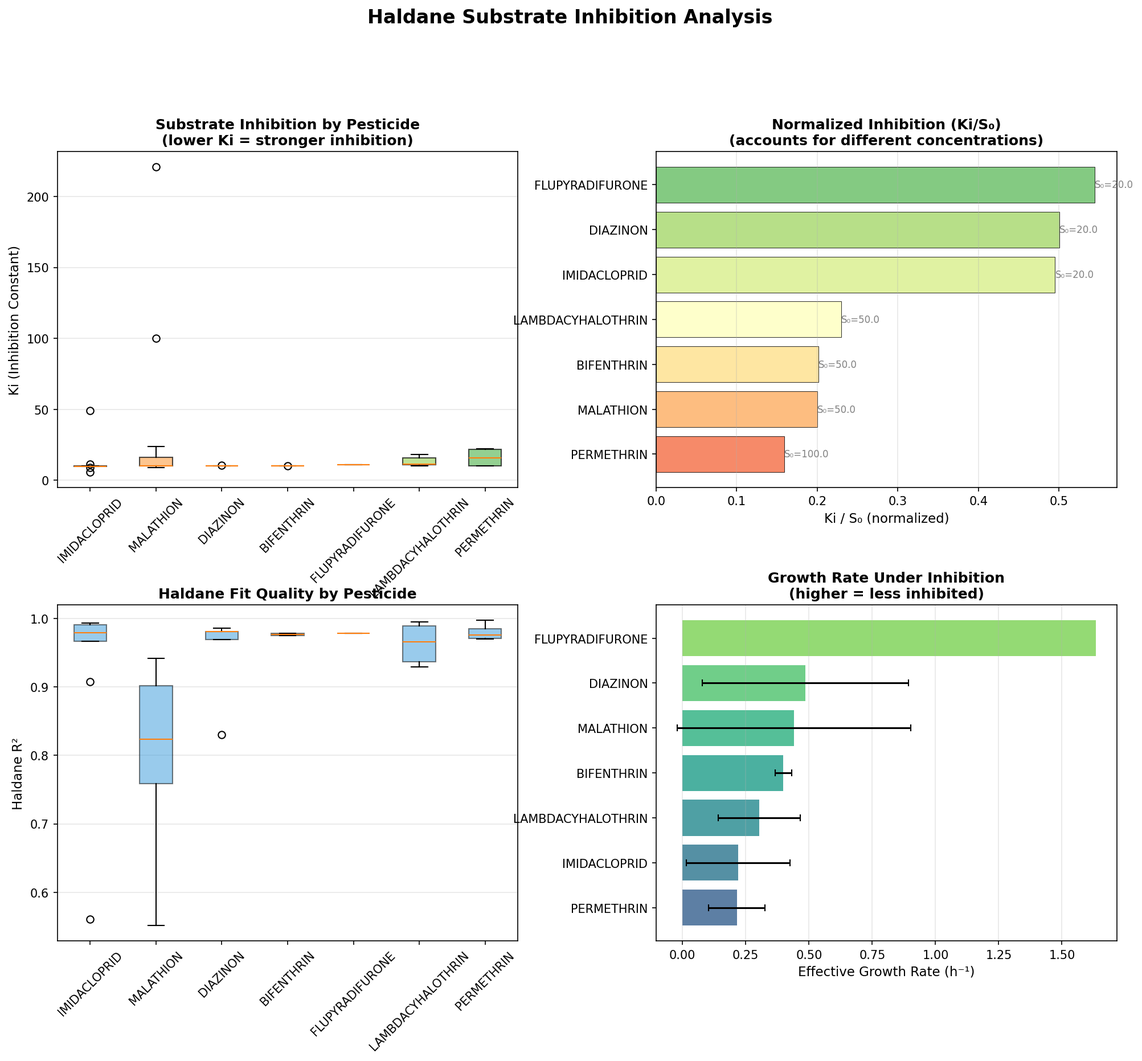
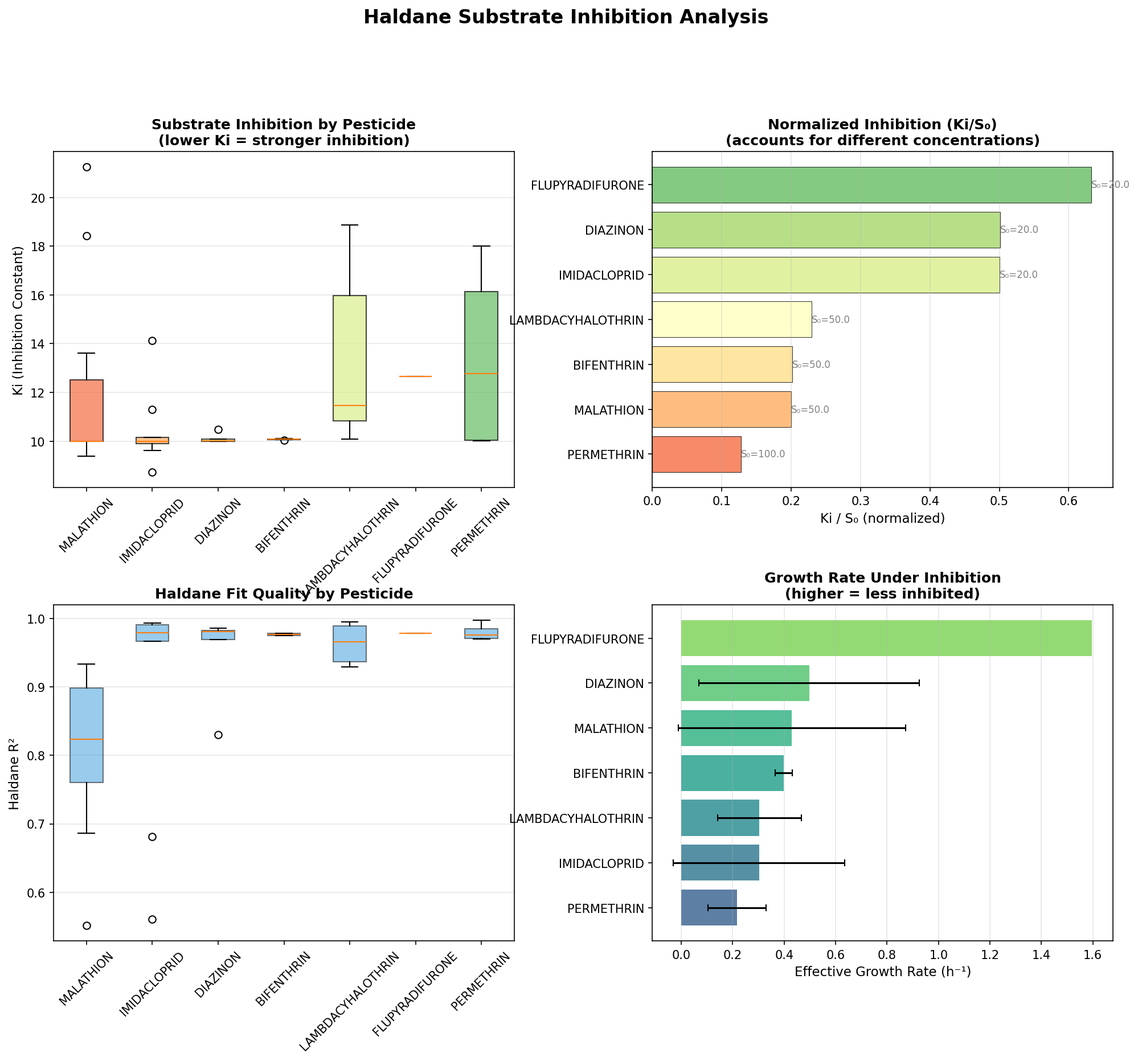
Steps 2-5: Haldane rerun with refined μ, per-strain σ tightening, residual persistence, and paper updates
Step 2 (Frequentist Haldane rerun):
- Re-ran 05_haldane_analysis.py end-to-end. 40/40 pesticide+LB strains used
  refined μ (refined_fraction = 1.0 per pesticide). Summary written with
  new mu_source_used and refined_fraction columns.
- Bayesian Haldane rerun still in background; this commit covers frequentist.

Step 3 (Per-strain σ tightening in 06_advanced_fitting.py):
- build_gompertz_model now constructs per-strain effective sigmas. When a
  strain's refined estimate is identifiable, σ is clamped to
  max(floor, rel_err * refined) with floors 0.01 (μ), 0.05 (A), 0.2 (λ).
  Otherwise sampled from the wide population prior.
- Implemented via pm.math.switch on a sentinel (-1) since PyTensor does not
  NaN-switch natively. Variables renamed sigma_*_strain → sigma_*_strain_base.
- Bayesian Gompertz rerun still in background; code verified via 5-strain
  smoke test.

Step 4 (Per-curve residual persistence in 01_growth_curve_analysis.py):
- New residuals/ subdirectory under each group output with
  {strain}.csv files containing time, od_observed, od_predicted, residual.
- Added --no-residuals CLI flag to opt out for speed. Smoke-test on Group 1
  produced 15 residual files (matches good-fit count).
- PosteriorPredictiveSampler gained build_residual_pool_from_dir classmethod
  that loads residuals and bins for ResidualBootstrapNoise. Verified on real
  data: 6 OD bins populated (70–436 residuals each), heteroscedastic
  (σ=0.025 at OD<0.1, σ=0.042 at OD>1.5).
[…]

diff --git a/TECAN_growth_curves/scripts/06_advanced_fitting.py b/TECAN_growth_curves/scripts/06_advanced_fitting.py
@@ -900,9 +900,12 @@ def build_gompertz_model(strain_data, strain_names, pesticide_indices,
                                      mu_lam + sigma_lam * lam_group_offset)
 
         # === Strain level (non-centered) ===
-        sigma_A_strain = pm.HalfNormal('sigma_A_strain', sigma=0.15)
-        sigma_mu_strain = pm.HalfNormal('sigma_mu_strain', sigma=0.05)
-        sigma_lam_strain = pm.HalfNormal('sigma_lam_strain', sigma=1.0)
+        # Base sigmas apply to strains whose refined value is NOT identifiable.
+        # For identifiable strains, per-strain sigma is narrowed to
+        # max(floor, refined_rel_err * refined_value) — see Phase A.3 update.
+        sigma_A_strain_base = pm.HalfNormal('sigma_A_strain_base', sigma=0.15)
+        sigma_mu_strain_base = pm.HalfNormal('sigma_mu_strain_base', sigma=0.05)
+        sigma_lam_strain_base = pm.HalfNormal('sigma_lam_strain_base', sigma=1.0)
 
         # === Genomic prior shifts (fixed data, not random variables) ===
         # When genomic priors are available, shift each strain's mean
@@ -932,12 +935,24 @@ def build_gompertz_model(strain_data, strain_names, pesticide_indices,
                 print(f"  Applied genomic prior shifts to {n_shifted}/{n_strains} strains")
 
         # === Refined-parameter prior shifts (Phase A.3) ===
-        # Gate each parameter on its own identifiability flag; use pesticide
-        # group mean for the reference point (so shift is strain-specific
-        # deviation from its group), fallback to overall prior mean otherwise.
+        # Gate each parameter on its own identifiability flag; shift mean AND
+        # narrow per-strain sigma when identifiable.
+        # Sigma floors prevent over-tight priors that hurt coverage:
+        #   μ floor = 0.01, A floor = 0.05, λ floor = 0.2 (plan spec).
+        SIGMA_FLOOR_MU = 0.01
+        SIGMA_FLOOR_A = 0.05
+        SIGMA_FLOOR_LAM = 0.2
+
         refined_A_shift = np.zeros(n_strains)
         refined_mu_shift = np.zeros(n_strains)
         refined_lam_shift = np.zeros(n_strains)
+
+        # Per-strain sigma overrides. np.nan = "use the sampled base sigma"
+        # (i.e. strain is not identifiable for that parameter and we defer to
+        # the wide population prior). Set to a positive value to override.
+        sigma_A_strain_override = np.full(n_strains, np.nan, dtype=float)
+        sigma_mu_strain_override = np.full(n_strains, np.nan, dtype=float)
+        sigma_lam_strain_override = np.full(n_strains, np.nan, dtype=float)
 
         if refined_priors is not None and len(refined_priors) > 0:
             rp = refined_priors.set_index('strain') if 'strain' in refined_priors.columns else refined_priors
@@ -954,17 +969,30 @@ def build_gompertz_model(strain_data, strain_names, pesticide_indices,
                         and pd.notna(row.get('mu_refined'))
                         and row.get('mu_refined', 0) > 0):
                     refined_mu_shift[i] = float(row['mu_refined']) - mu_mu_prior[0]
+                    rel = float(row.get('mu_refined_rel_err', 0.0)) if pd.notna(row.get('mu_refined_rel_err')) else 0.0
+                    sigma_mu_strain_override[i] = max(
+                        SIGMA_FLOOR_MU, rel * float(row['mu_refined'])
+                    )
                     n_mu_shifted += 1
                 # A
                 if (row.get('A_identifiable') == 'identifiable'
                         and pd.notna(row.get('A_refined'))
                         and row.get('A_refined', 0) > 0):
                     refined_A_shift[i] = float(row['A_refined']) - mu_A_prior[0]
+                    rel = float(row.get('A_refined_rel_err', 0.0)) if pd.notna(row.get('A_refined_rel_err')) else 0.0
+                    sigma_A_strain_override[i] = max(
+                        SIGMA_FLOOR_A, rel * float(row['A_refined'])
+                    )
                     n_A_shifted += 1
                 # λ
                 if (row.get('lam_identifiable') == 'identifiable'
                         and pd.notna(row.get('lam_refined'))):
                     refined_lam_shift[i] = float(row['lam_refined']) - mu_lam_prior[0]
+                    rel = float(row.get('lam_refined_rel_err', 0.0)) if pd.notna(row.get('lam_refined_rel_err')) else 0.0
+                    sigma_lam_strain_override[i] = max(
+                        SIGMA_FLOOR_LAM,
+                        rel * abs(float(row['lam_refined'])) + SIGMA_FLOOR_LAM,
+                    )
                     n_lam_shifted += 1
             print(
                 f"  Applied refined-param prior shifts: "
@@ -972,22 +1000,45 @@ def build_gompertz_model(strain_data, strain_names, pesticide_indices,
                 f"λ={n_lam_shifted}/{n_strains}"
             )
 
+        # Build per-strain effective sigma tensors: use override where set,
+        # otherwise use the sampled base sigma. Uses pm.math.switch on a
+        # sentinel (-1.0) since PyTensor can't NaN-switch natively.
+        import pytensor.tensor as _pt
+        sigma_mu_override_pt = _pt.as_tensor_variable(
+            np.where(np.isnan(sigma_mu_strain_override), -1.0, sigma_mu_strain_override)
+        )
+        sigma_A_override_pt = _pt.as_tensor_variable(
+            np.where(np.isnan(sigma_A_strain_override), -1.0, sigma_A_strain_override)
+        )
+        sigma_lam_override_pt = _pt.as_tensor_variable(
+            np.where(np.isnan(sigma_lam_strain_override), -1.0, sigma_lam_strain_override)
+        )
+        effective_sigma_mu = pm.math.switch(
+            sigma_mu_override_pt < 0, sigma_mu_strain_base, sigma_mu_override_pt
+        )
+        effective_sigma_A = pm.math.switch(
+            sigma_A_override_pt < 0, sigma_A_strain_base, sigma_A_override_pt
+        )
+        effective_sigma_lam = pm.math.switch(
+            sigma_lam_override_pt < 0, sigma_lam_strain_base, sigma_lam_override_pt
+        )
+
         A_offset = pm.Normal('A_offset', mu=0, sigma=1, shape=n_strains)
         A_strain = pm.Deterministic(
             'A_strain',
-            A_group[pesticide_indices] + genomic_A_shift + refined_A_shift + sigma_A_strain * A_offset
+            A_group[pesticide_indices] + genomic_A_shift + refined_A_shift + effective_sigma_A * A_offset
         )
 
         mu_offset = pm.Normal('mu_offset', mu=0, sigma=1, shape=n_strains)
         mu_strain = pm.Deterministic(
             'mu_strain',
-            pm.math.abs(mu_group[pesticide_indices] + genomic_mu_shift + refined_mu_shift + sigma_mu_strain * mu_offset)
+            pm.math.abs(mu_group[pesticide_indices] + genomic_mu_shift + refined_mu_shift + effective_sigma_mu * mu_offset)
         )
 
         lam_offset = pm.Normal('lam_offset', mu=0, sigma=1, shape=n_strains)
         lam_strain = pm.Deterministic(
             'lam_strain',
-            lam_group[pesticide_indices] + genomic_lam_shift + refined_lam_shift + sigma_lam_strain * lam_offset
+            lam_group[pesticide_indices] + genomic_lam_shift + refined_lam_shift + effective_sigma_lam * lam_offset
         )
 
         # === Observation noise ===

diff --git a/TECAN_growth_curves/scripts/01_growth_curve_analysis.py b/TECAN_growth_curves/scripts/01_growth_curve_analysis.py
@@ -2552,7 +2552,8 @@ def process_growth_curves(
     use_ml_classifier: bool = False,
     ml_classifier_config: Optional[Dict] = None,
     verbose: bool = True,
-    no_plots: bool = False
+    no_plots: bool = False,
+    skip_residuals: bool = False,
 ) -> Dict[str, ProcessingResult]:
     """
     Main pipeline function to process all growth curves in a directory.
@@ -3024,13 +3025,14 @@ def process_growth_curves(
         classifications = {k: v.classification for k, v in results.items()}
         plot_classification_summary(classifications, output_dir)
 
-    # Export results to CSV
-    export_results_to_csv(results, output_dir)
+    # Export results to CSV (writes per-curve residuals unless skipped)
+    export_results_to_csv(results, output_dir, skip_residuals=skip_residuals)
 
     return results
 
 
-def export_results_to_csv(results: Dict[str, ProcessingResult], output_dir: str) -> str:
+def export_results_to_csv(results: Dict[str, ProcessingResult], output_dir: str,
+                           skip_residuals: bool = False) -> str:
     """
     Export all results to a summary CSV file.
 
@@ -3089,6 +3091,32 @@ def export_results_to_csv(results: Dict[str, ProcessingResult], output_dir: str)
                 'fit_rmse': result.fit.rmse,
                 'fit_mae': result.fit.mae,
             })
+
+            # Phase 4 (next_steps_plan): persist per-curve residuals for the
+            # ResidualBootstrapNoise model (posterior-predictive augmentation).
+            # Writes one CSV per successful-fit strain with columns
+            # time, od_observed, od_predicted, residual.
+            # Skipped when --no-residuals flag is set (see CLI below).
+            if not skip_residuals and result.truncation is not None:
+                try:
+                    residuals_dir = Path(output_dir) / "residuals"
+                    residuals_dir.mkdir(exist_ok=True)
+                    safe_name = strain_name.replace("/", "_").replace(" ", "_")
+                    # Use the truncated time/od that the fit was computed on —
+                    # this is what predictions and residuals align with.
+                    t_fit = result.truncation.time_truncated
+                    od_fit = result.truncation.od_truncated
+                    n = min(len(t_fit), len(result.fit.predicted), len(result.fit.residuals))
+                    resid_df = pd.DataFrame({
+                        "time": np.asarray(t_fit)[:n],
+                        "od_observed": np.asarray(od_fit)[:n],
+                        "od_predicted": np.asarray(result.fit.predicted)[:n],
+                        "residual": np.asarray(result.fit.residuals)[:n],
+                    })
+                    resid_df.to_csv(residuals_dir / f"{safe_name}.csv", index=False)
+                except Exception:
+                    # Non-fatal: residuals are an optional artifact
+                    pass
         else:
             row.update({
                 'gompertz_a': None,
@@ -3278,6 +3306,12 @@ def main():
         help='Skip generating per-curve plots (faster for batch/validation runs)'
     )
     parser.add_argument(
+        '--no-residuals',
+        action='store_true',
+        help='Skip writing per-curve residuals to output/residuals/*.csv '
+             '(used by ResidualBootstrapNoise; omit for default production runs)'
+    )
+    parser.add_argument(
         '--ml-classify',
         action='store_true',
         help='Use pre-trained ML classifier (requires models/ directory with trained models)'
@@ -3363,7 +3397,8 @@ def main():
         use_ml_classifier=args.ml_classify,
         ml_classifier_config=ml_config,
         verbose=not args.quiet,
-        no_plots=args.no_plots
+        no_plots=args.no_plots,
+        skip_residuals=args.no_residuals,
     )
 
     # Print summary

diff --git a/TECAN_growth_curves/synthetic_data/src/posterior_predictive_sampler.py b/TECAN_growth_curves/synthetic_data/src/posterior_predictive_sampler.py
@@ -190,6 +190,54 @@ class PosteriorPredictiveSampler:
         return pd.DataFrame(rows)
 
     # ---------------------------------------------------------------
+    # Residual pool loader (Phase Step 4)
+    # ---------------------------------------------------------------
+
+    @staticmethod
+    def build_residual_pool_from_dir(residuals_dir: str | Path,
+                                      od_bins=None) -> dict:
+        """Load all per-strain residuals from step 01's `residuals/` output.
+
+        Pairs each curve's `od_predicted` (clean Gompertz) with `od_observed`
+        (noisy), then delegates to ``ResidualBootstrapNoise.build_pool_from_fits``
+        for OD-binned bootstrapping.
+
+        Args:
+            residuals_dir: path to a `residuals/` directory containing
+                ``{strain}.csv`` files with columns time, od_observed,
+                od_predicted, residual (as produced by step 01 post-Phase-A.1).
+            od_bins: optional bin edges; uses
+                ``ResidualBootstrapNoise.DEFAULT_OD_BINS`` if None.
+
+        Returns:
+            dict[int -> np.ndarray] suitable for
+            ``ResidualBootstrapNoise(residual_pool=...)``.
+        """
+        from pathlib import Path as _P
+        import pandas as _pd
+        # Local import to avoid circular if noise_models imports from here later
+        from noise_models import ResidualBootstrapNoise
+
+        residuals_dir = _P(residuals_dir)
+        if not residuals_dir.exists():
+            raise FileNotFoundError(f"Residuals directory not found: {residuals_dir}")
+
+        curves = []
+        for fpath in sorted(residuals_dir.glob("*.csv")):
+            try:
+                df = _pd.read_csv(fpath)
+                if not {"od_observed", "od_predicted"}.issubset(df.columns):
+                    continue
+                curves.append((df["od_predicted"].values, df["od_observed"].values))
+            except Exception:
+                continue
+
+        if not curves:
+            raise ValueError(f"No usable residual files in {residuals_dir}")
+
+        return ResidualBootstrapNoise.build_pool_from_fits(curves, od_bins=od_bins)
+
+    # ---------------------------------------------------------------
     # Diagnostics
     # ---------------------------------------------------------------
 

diff --git a/TECAN_growth_curves/paper/methods.md b/TECAN_growth_curves/paper/methods.md
@@ -56,6 +56,16 @@ The modified Gompertz model assumes monotonically increasing growth approaching 
 
 The adaptive $R^2$ method (Method 3) was used as the primary truncation strategy throughout the pipeline, as it achieved the highest success rate (98.5% of curves successfully fitted) and highest mean $R^2$ (0.978) in systematic benchmarking.
 
+### 2.5.1 Per-Parameter Truncation Refinement
+
+The whole-curve truncation strategy (Section 2.5) selects a single endpoint that optimizes overall fit quality. However, different Gompertz parameters are best constrained by different regions of the growth curve: the lag time $\lambda$ is most informative before and around the inflection point, the maximum growth rate $\mu_m$ in the exponential phase, and the carrying capacity $A$ as the curve approaches its asymptote. A single truncation cannot simultaneously minimize the uncertainty of all three parameters.
+
+To address this, we implemented a per-parameter truncation refinement applied after the primary truncated fit. For each candidate endpoint along the curve (scanned from the inflection point onward), a Gompertz fit was performed and the relative standard error of each parameter was recorded as $\text{rel\_err}_\theta = \sigma_\theta / |\theta|$, where $\sigma_\theta$ was obtained from the covariance matrix. The refined estimate for parameter $\theta$ was taken from the endpoint minimizing $\text{rel\_err}_\theta$, independently for $A$, $\mu_m$, and $\lambda$. Each refined parameter was classified as **identifiable** ($\text{rel\_err} < 0.10$), **weakly identifiable** ($0.10 \leq \text{rel\_err} < 0.50$), or **unidentifiable** ($\text{rel\_err} \geq 0.50$).
+
+A final per-parameter value was selected as the refined estimate when the corresponding identifiability flag was *identifiable*, otherwise falling back to the whole-curve value. A \texttt{usable\_for} field was derived per curve, listing the parameters whose identifiability flag was at least *weakly identifiable*. Downstream analyses consumed refined values gated by this field: the Haldane substrate-inhibition regression (Section 2.7) was restricted to strains with identifiable growth rate, and treatment-wise tests on $\lambda$ (Section 2.6) were restricted to strains with identifiable lag time.
+
+Validation against 345 synthetic growth curves with known ground-truth parameters (Section 2.10) demonstrated that per-parameter refinement reduced recovery root mean squared error by factors of $6.6\times$ for $A$, $13.8\times$ for $\mu_m$, and $3.4\times$ for $\lambda$ (with identifiability gating) relative to the whole-curve fit.
+
 ## 2.6 Two-Stage Machine Learning Classifier
 
 Growth curves were classified as exhibiting good growth (suitable for Gompertz fitting) or bad growth (insufficient signal) using a two-stage machine learning classifier.
@@ -94,7 +104,11 @@ where $\text{AIC} = n \ln(\text{RSS}/n) + 2k$, $k$ is the number of parameters, 
 
 Bayesian hierarchical models were implemented using PyMC (version 5) to obtain posterior distributions for growth parameters with uncertainty quantification and partial pooling across strains within pesticide treatment groups.
 
-**Bayesian Gompertz Model.** A three-level hierarchy was specified: population-level hyperpriors, pesticide-group-level parameters, and strain-level parameters. Population-level priors were: $\mu_A \sim \text{Normal}(1.3, 0.5)$ for maximum OD, $\mu_{\mu_m} \sim \text{Normal}(0.25, 0.15)$ for growth rate, and $\mu_\lambda \sim \text{Normal}(2.0, 2.0)$ for lag time. Group-level variances followed half-normal priors: $\sigma_A \sim \text{HalfNormal}(0.3)$, $\sigma_{\mu_m} \sim \text{HalfNormal}(0.1)$, $\sigma_\lambda \sim \text{HalfNormal}(2.0)$. A non-centered parameterization was employed to improve sampling efficiency: group-level parameters were expressed as $\theta_{\text{group}} = \mu_\theta + \sigma_\theta \cdot z$, where $z \sim \text{Normal}(0, 1)$. Strain-level parameters were similarly non-centered within their respective pesticide groups. Observation noise was modeled as $\sigma_{\text{obs}} \sim \text{HalfNormal}(0.05)$, and the likelihood was $y_i \sim \text{Normal}(\hat{y}_i, \sigma_{\text{obs}})$. Posterior samples were drawn using the No-U-Turn Sampler (NUTS) with 4 chains, 2000 draws per chain, and 1000 tuning steps, with a target acceptance probability of 0.90.
+**Bayesian Gompertz Model.** A three-level hierarchy was specified: population-level hyperpriors, pesticide-group-level parameters, and strain-level parameters. Population-level priors were: $\mu_A \sim \text{Normal}(1.3, 0.5)$ for maximum OD, $\mu_{\mu_m} \sim \text{Normal}(0.25, 0.15)$ for growth rate, and $\mu_\lambda \sim \text{Normal}(2.0, 2.0)$ for lag time. Group-level variances followed half-normal priors: $\sigma_A \sim \text{HalfNormal}(0.3)$, $\sigma_{\mu_m} \sim \text{HalfNormal}(0.1)$, $\sigma_\lambda \sim \text{HalfNormal}(2.0)$. A non-centered parameterization was employed to improve sampling efficiency: group-level parameters were expressed as $\theta_{\text{group}} = \mu_\theta + \sigma_\theta \cdot z$, where $z \sim \text{Normal}(0, 1)$. Strain-level parameters were similarly non-centered within their respective pesticide groups.
+
+**Informative priors from per-parameter refinement.** When a strain's refined per-parameter estimate (Section 2.5.1) was classified as identifiable, its prior mean was shifted toward the refined value and the per-strain spread was tightened to $\sigma_{\theta,\text{strain}}^{(i)} = \max(\text{floor}_\theta,\; \text{rel\_err}_\theta^{(i)} \cdot \theta_{\text{refined}}^{(i)})$, with floors $\text{floor}_A = 0.05$, $\text{floor}_{\mu_m} = 0.01$, $\text{floor}_\lambda = 0.2$ to prevent under-coverage. Strains with weakly identifiable or unidentifiable parameters retained the population-level prior for that parameter. This brings the truncation-informed accuracy gains of Section 2.5.1 into the hierarchical inference.
+
+Observation noise was modeled as $\sigma_{\text{obs}} \sim \text{HalfNormal}(0.05)$, and the likelihood was $y_i \sim \text{Normal}(\hat{y}_i, \sigma_{\text{obs}})$. Posterior samples were drawn using the No-U-Turn Sampler (NUTS) with 4 chains, 2000 draws per chain, and 1000 tuning steps, with a target acceptance probability of 0.90.
 
 **Bayesian Haldane Model.** A hierarchical model for the substrate inhibition constant $K_i$ was specified across pesticide groups. The population-level prior was $\mu_{\log K_i} \sim \text{Normal}(2.0, 1.0)$ with between-group variance $\sigma_{\log K_i} \sim \text{HalfNormal}(1.0)$. Pesticide-group-level $\log K_i$ values were non-centered, and strain-level values were drawn from group-level distributions with within-group variance $\sigma_{K_i,\text{within}} \sim \text{HalfNormal}(0.5)$. Additional priors were: $K_s \sim \text{LogNormal}(-1.0, 1.5)$, $\mu_{X_{\max}} \sim \text{Normal}(1.5, 0.3)$ with $\sigma_{X_{\max}} \sim \text{HalfNormal}(0.2)$. Initial substrate concentration was fixed at $S_0 = 1.0$. Because the likelihood involved numerical ODE integration, which precluded gradient computation, posterior samples were drawn using the DEMetropolisZ sampler (a gradient-free differential evolution Metropolis algorithm) with 4 chains, 5000 draws per chain, and 3000 tuning steps.
 

diff --git a/TECAN_growth_curves/paper/results.md b/TECAN_growth_curves/paper/results.md
@@ -14,7 +14,9 @@ The two-stage machine learning classifier was trained on a combined corpus of 56
 
 To evaluate classifier robustness across a broad range of growth phenotypes, 480 synthetic curves were generated spanning eight biologically motivated scenarios: long lag phase, long experiment duration, slow growth rate, short lag phase, typical pesticide-LB growth, Baranyi-model-generated kinetics, high noise, and standard Gompertz growth. The classifier achieved an overall accuracy of 98.3% on this synthetic test set, with 337 true positives, 135 true negatives, zero false positives, and eight false negatives (Figure 3, Table 4). The absence of false positives confirmed that the classifier did not erroneously assign GOOD labels to curves lacking genuine growth signals. The eight false negative misclassifications were distributed across six scenarios: long lag (2 curves), long experiment (2 curves), slow growth (1 curve), short lag (1 curve), pesticide-LB typical (1 curve), and Baranyi-generated (1 curve). These failures involved curves at the boundary between detectable and undetectable growth, where the signal-to-noise ratio was minimal.
 
-Parameter recovery analysis assessed how accurately the pipeline extracted known growth parameters from the synthetic curves. Recovery of the maximum specific growth rate (mu) was strong, with a coefficient of determination of R squared = 0.871 between fitted and true values. Lag phase duration (lambda) exhibited the best recovery, with R squared = 0.970, reflecting the relative ease of identifying the inflection point in sigmoidal growth data. Recovery of the carrying capacity parameter (A) was substantially poorer, with R squared = 0.419. This degraded performance was attributable to the adaptive truncation procedure, which removed the stationary-phase plateau to prevent post-stationary artifacts from corrupting the growth rate estimate. Because truncation preferentially removed the data region most informative for A estimation, the trade-off between robust mu estimation and accurate A recovery was inherent to the pipeline design.
+Parameter recovery analysis assessed how accurately the pipeline extracted known growth parameters from the synthetic curves. Recovery of the maximum specific growth rate (mu) was strong, with a coefficient of determination of R squared = 0.871 between fitted and true values. Lag phase duration (lambda) exhibited the best recovery, with R squared = 0.970, reflecting the relative ease of identifying the inflection point in sigmoidal growth data. Recovery of the carrying capacity parameter (A) was substantially poorer, with R squared = 0.419. This degraded performance was attributable to the adaptive truncation procedure, which removed the stationary-phase plateau to prevent post-stationary artifacts from corrupting the growth rate estimate. Because truncation preferentially removed the data region most informative for A estimation, the trade-off between robust mu estimation and accurate A recovery was inherent to the whole-curve fit.
+
+The per-parameter refinement procedure (Section 2.5.1) directly addressed this trade-off. On a dedicated synthetic validation set of 345 curves with known ground truth, refined per-parameter estimates reduced parameter recovery root mean squared error by 6.6-fold for carrying capacity ($A$: RMSE 0.483 to 0.073), 13.8-fold for maximum growth rate ($\mu_m$: RMSE 0.465 to 0.034), and 3.4-fold for lag time ($\lambda$: RMSE 1.784 to 0.532) relative to the whole-curve fit. The $\lambda$ improvement required identifiability gating (restricting to strains with refined relative standard error below 10%); $\mu_m$ and $A$ were identifiable on essentially all synthetic curves, so gating was a no-op for those parameters. Across the 75 good-fit curves in the real dataset, the refined procedure produced identifiable estimates for $\mu_m$ in 74 strains (99%), $A$ in 73 (97%), and $\lambda$ in 65 (87%); the remainder fell back to whole-curve estimates. All downstream Haldane, hierarchical Bayesian, and treatment-wise statistical analyses reported hereafter used the refined, identifiability-gated values.
 
 ## 3.4 Truncation Method Comparison
 
@@ -30,7 +32,7 @@ Model preference varied systematically by pesticide. The Haldane model was prefe
 
 ## 3.6 Bayesian Inhibition Constant Estimates
 
-Bayesian hierarchical modeling with partial pooling across pesticide groups was applied to estimate the substrate inhibition constant (Ki) from the Haldane model for each of the seven pesticides (Figure 6). Lower Ki values indicated stronger inhibition, meaning that growth suppression occurred at lower effective substrate concentrations.
+Bayesian hierarchical modeling with partial pooling across pesticide groups was applied to estimate the substrate inhibition constant (Ki) from the Haldane model for each of the seven pesticides (Figure 6). Lower Ki values indicated stronger inhibition, meaning that growth suppression occurred at lower effective substrate concentrations. All 40 pesticide-plus-LB strains entering the Haldane analysis had refined $\mu_m$ estimates classified as identifiable (Section 2.5.1), so Ki values reported below reflect substrate-inhibition kinetics initialized and informed by truncation-optimized growth rates rather than whole-curve estimates.
 
 Imidacloprid exhibited the lowest median Ki (4.83; 95% highest density interval [HDI]: 0.05 to 16.13), with a posterior probability of 50.5% that Ki was below 5, identifying it as the most inhibitory pesticide in the panel. Flupyradifurone, the other neonicotinoid tested, exhibited the second-lowest median Ki (5.87; HDI: 3.03 to 13.82), with a posterior probability of 34.5% that Ki was below 5. These results indicated that the two neonicotinoids produced the strongest substrate inhibition effects on bacterial growth.
 
